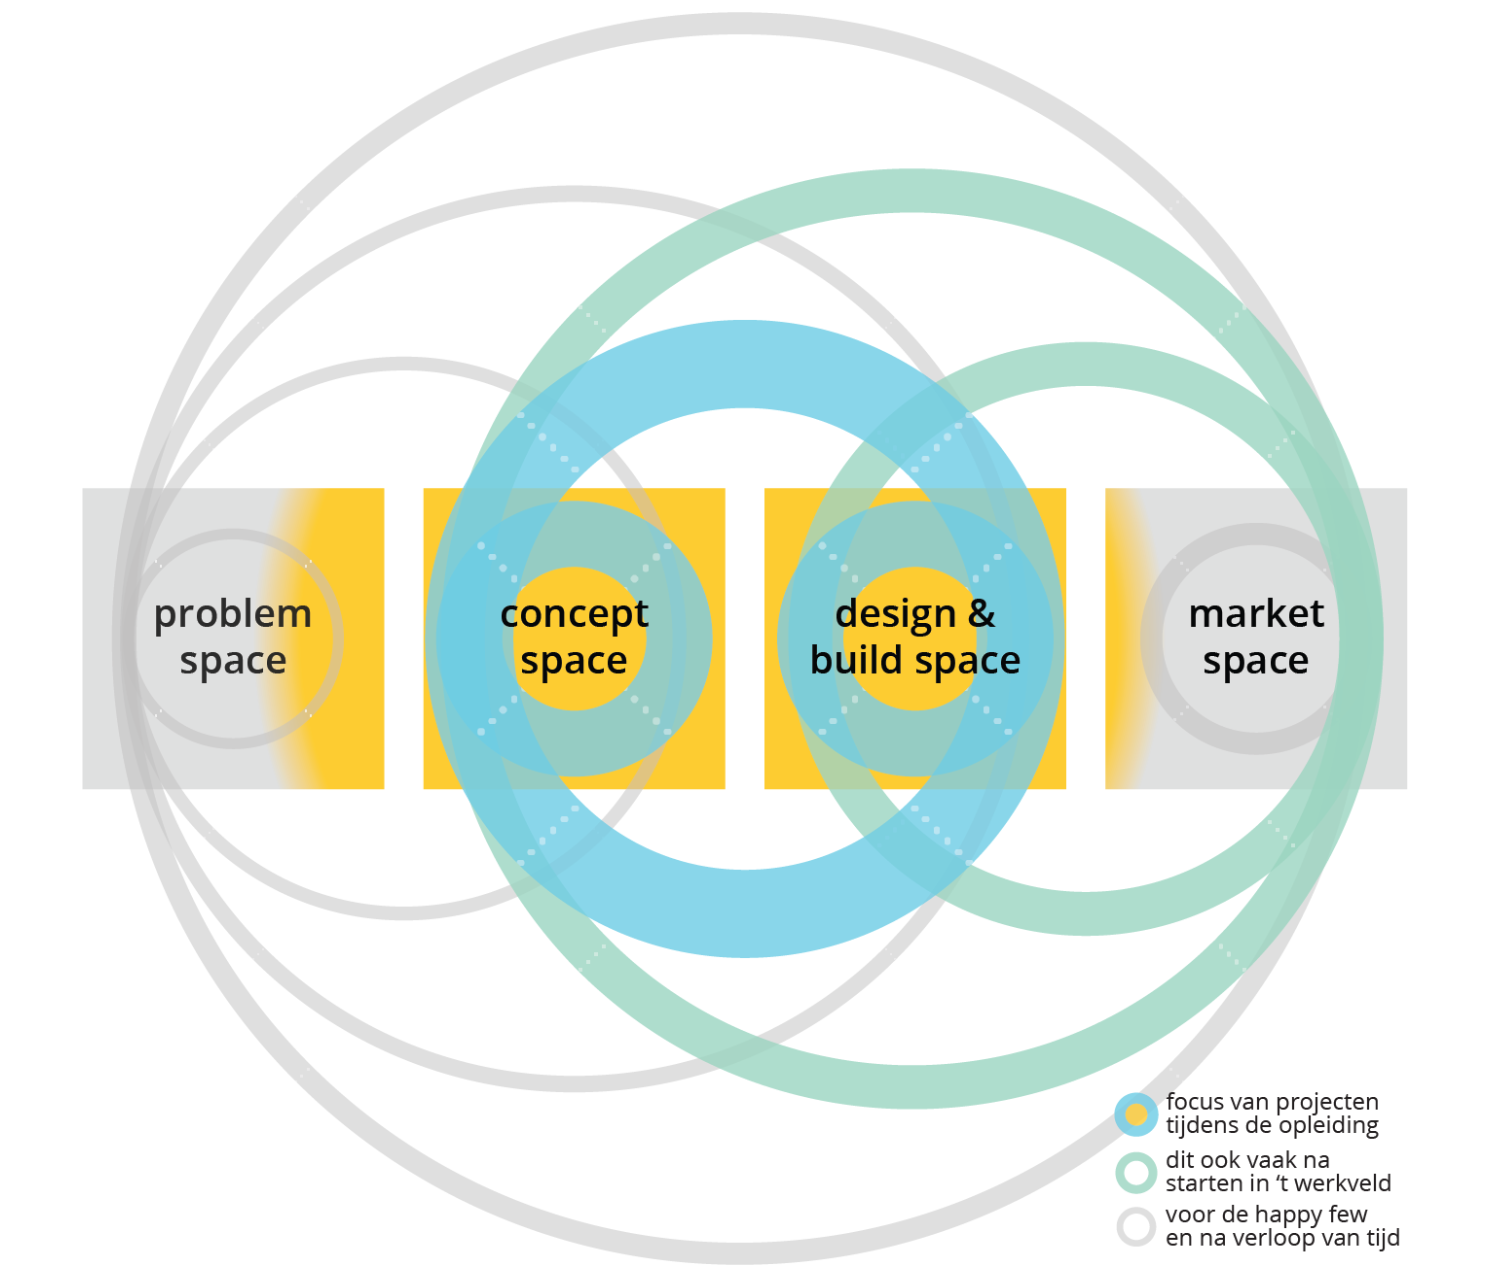
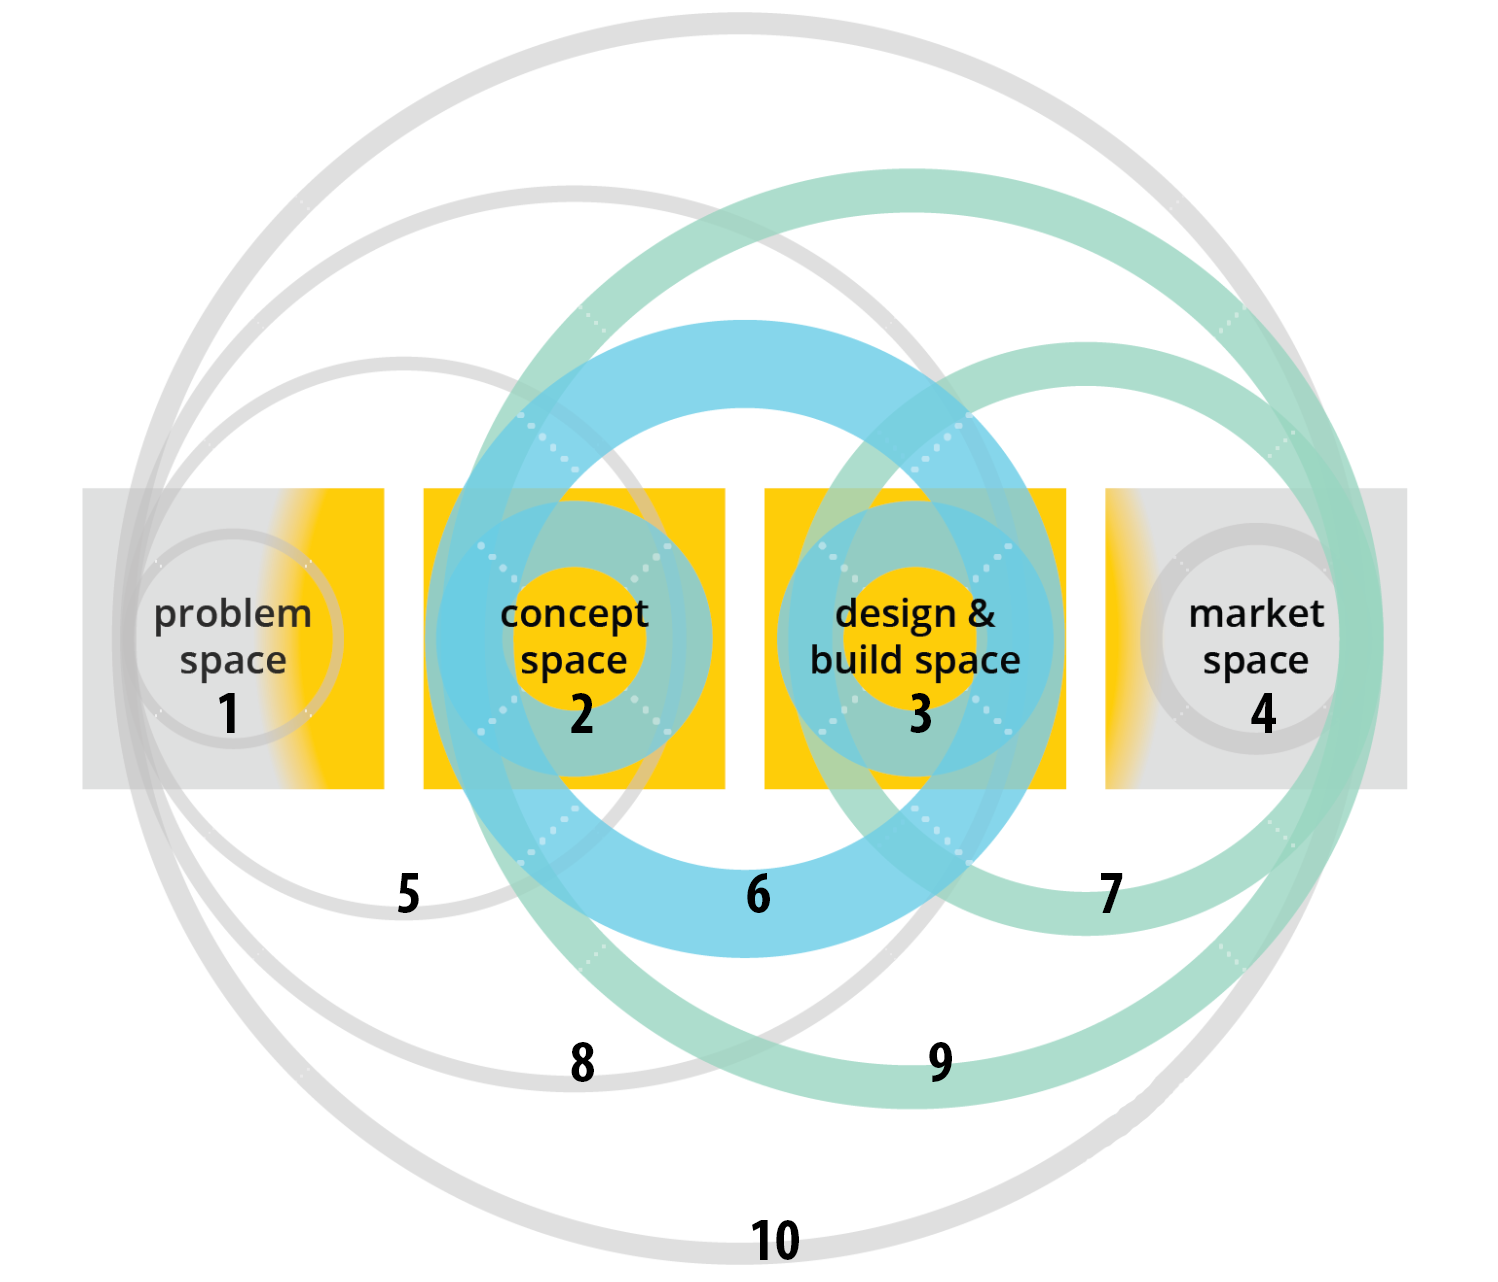
Added spaces question Also fixed some spelling errors.

diff --git a/src/App.vue b/src/App.vue
@@ -140,8 +140,8 @@
             </md-field>
             <p class="help">
               Wat is het aantal studiepuntent van de module?
-              <span v-if="intro.type == 'Vak'">Een vak is doorgaands <strong>3 punten</strong>.</span>
-              <span v-if="intro.type == 'Project'">Een project is doorgaands <strong>5 punten</strong>.</span>
+              <span v-if="intro.type == 'Vak'">Een vak is doorgaans <strong>3 punten</strong>.</span>
+              <span v-if="intro.type == 'Project'">Een project is doorgaans <strong>5 punten</strong>.</span>
             </p>
 
             <md-button type="submit" class="md-dense md-raised md-primary">Verder</md-button>
@@ -188,20 +188,36 @@
               </div>
             </div>
 
-            <div v-if="intro.type == 'Vak'">
-              <div class="lab-fake-field">
-                <h2 class="lab-fake-label">Cirkels *</h2>
-                <img class="lab-circles" src="./assets/circles.png">
-                <p class="help">In welk van deze gebieden valt het vak?</p>
-                <md-radio
-                  class="lab-check-vertical"
-                  v-model="$v.matter.circles.$model"
-                  v-for="(option, index) in options.circles"
-                  :key="index"
-                  :value="option"
-                ><strong>{{ index + 1 }}</strong>: {{ option }}</md-radio>
-                <p class="lab-fake-error" v-if="$v.matter.circles.$dirty && !$v.matter.circles.required">Dit veld is verplicht</p>
-              </div>
+           
+            <div v-if="intro.type == 'Vak'" class="lab-fake-field">
+              <h2 class="lab-fake-label">Cirkels *</h2>
+              <img class="lab-circles" src="./assets/circles.png">
+              <p class="help">In welk van deze gebieden valt het vak?</p>
+              <md-radio
+                class="lab-check-vertical"
+                v-model="$v.matter.circles.$model"
+                v-for="(option, index) in options.circles"
+                :key="index"
+                :value="option"
+              ><strong>{{ index + 1 }}</strong>: {{ option }}</md-radio>
+              <p class="lab-fake-error" v-if="$v.matter.circles.$dirty && !$v.matter.circles.required">Dit veld is verplicht</p>
+            </div>
+
+            
+            <div v-if="intro.type == 'Project'">
+              <p class="help">In welk gebied valt deze module.?</p>
+              <img  src="./assets/spaces.png">
+              <md-field :class="{'md-invalid': $v.matter.spaces.$dirty && $v.matter.spaces.$invalid}">
+                <label>Spaces</label>
+                <md-select v-model="$v.matter.spaces.$model">
+                  <md-option
+                    v-for="(option, index) in options.spaces"
+                    :value="option"
+                    :key="option"
+                  >{{ index +": "}}{{ option }}</md-option>
+                </md-select>
+                <span class="md-error" v-if="!$v.matter.spaces.required">Dit veld is verplicht</span>
+              </md-field>
             </div>
 
             <div class="lab-fake-field">
@@ -243,7 +259,7 @@
             <p class="help">Kies welke beroepsproducten er worden aangeleerd bij deze module.</p>
 
             <md-field :class="{'md-invalid': $v.matter.productsAsked.$dirty && $v.matter.productsAsked.$invalid}">
-              <label>Producten gevraagd</label>
+              <label>Producten getoetst</label>
               <md-select v-model="$v.matter.productsAsked.$model" multiple>
                 <md-option
                   v-for="option in options.products"
@@ -255,7 +271,6 @@
             </md-field>
             <p class="help">Kies op welke beroepsproducten er getoetst wordt bij deze module.</p>
 
-            
             <md-field :class="{'md-invalid': $v.matter.researchMethodsLearned.$dirty && $v.matter.researchMethodsLearned.$invalid}">
               <label>Onderzoeksmethoden aangeleerd</label>
               <md-select v-model="$v.matter.researchMethodsLearned.$model" multiple>
@@ -270,7 +285,7 @@
             <p class="help">Kies welke onderzoeksmethoden er worden aangeleerd in deze module. Kijk op <a href="http://www.cmdmethods.nl/">cmdmethods.nl</a> om te zien wat elke methode inhoudt</p>
 
             <md-field :class="{'md-invalid': $v.matter.researchMethodsAsked.$dirty && $v.matter.researchMethodsAsked.$invalid}">
-              <label>Onderzoeksmethoden aangeleerd</label>
+              <label>Onderzoeksmethoden getoetst</label>
               <md-select v-model="$v.matter.researchMethodsAsked.$model" multiple>
                 <md-option
                   v-for="option in options.researchMethods"
@@ -376,6 +391,7 @@ export default {
         objectivesSummary: '',
         competencies: [],
         circles: '',
+        spaces: '',
         methods: [],
         methodsSummary: '',
         productsLearned: [],
@@ -404,6 +420,7 @@ export default {
           'Techniek/Vormgeving',
           'Interactie/Techniek/Vormgeving'
         ],
+        spaces: ['problem space', 'concept space','design&build space', 'market space', 'problem space, concept space', 'concept space, design&build space', 'design&build space, market space', 'problem space, concept space, design&build space', 'concept space, design&build space, market space', 'problem space, concept space, design&build space, market space'],
         type: ['Project', 'Vak'],
         cluster: null,
         products: ["geen beroepsproducten", "analyse" , "business model canvas" , "concept" , "customer journey" , "design system" , "empathy map" , "flows/wireframe" , "installatie" , "interactieve applicatie" , "job story" , "logboek" , "mockup / schermontwerp" , "moodboard" , "ontwerp document / design spec" , "persona" , "prototype" , "requirement list" , "schetsen" , " scenario" , "service blueprint" , "sitemap" , "styleguide" , "storyboard" , "testplan/testrapport" , "video" , "visual design"],
@@ -428,6 +445,7 @@ export default {
         objectivesSummary: {required, maxLength: maxLength(1024)},
         competencies: {required},
         circles: this.intro.type === 'Vak' ? {required} : {},
+        spaces: this.intro.type === 'Project' ? {required} : {},
         methods: {required},
         methodsSummary: {required, maxLength: maxLength(1024)},
         productsLearned: {required},
@@ -521,6 +539,7 @@ export default {
         researchMethodsAsked: matter.researchMethodsAsked,
         competencies: matter.competencies,
         circles: matter.circles,
+        spaces: matter.spaces,
         // competenciesSummary: null,
         program: options.program[0]._id,
         faculty: options.faculty[0]._id
@@ -551,7 +570,7 @@ export default {
 }
 
 @media (min-width: 48rem) {
-  .lab-circles {
+  .lab-circles{
     width: 50%;
     float: right;
   }
